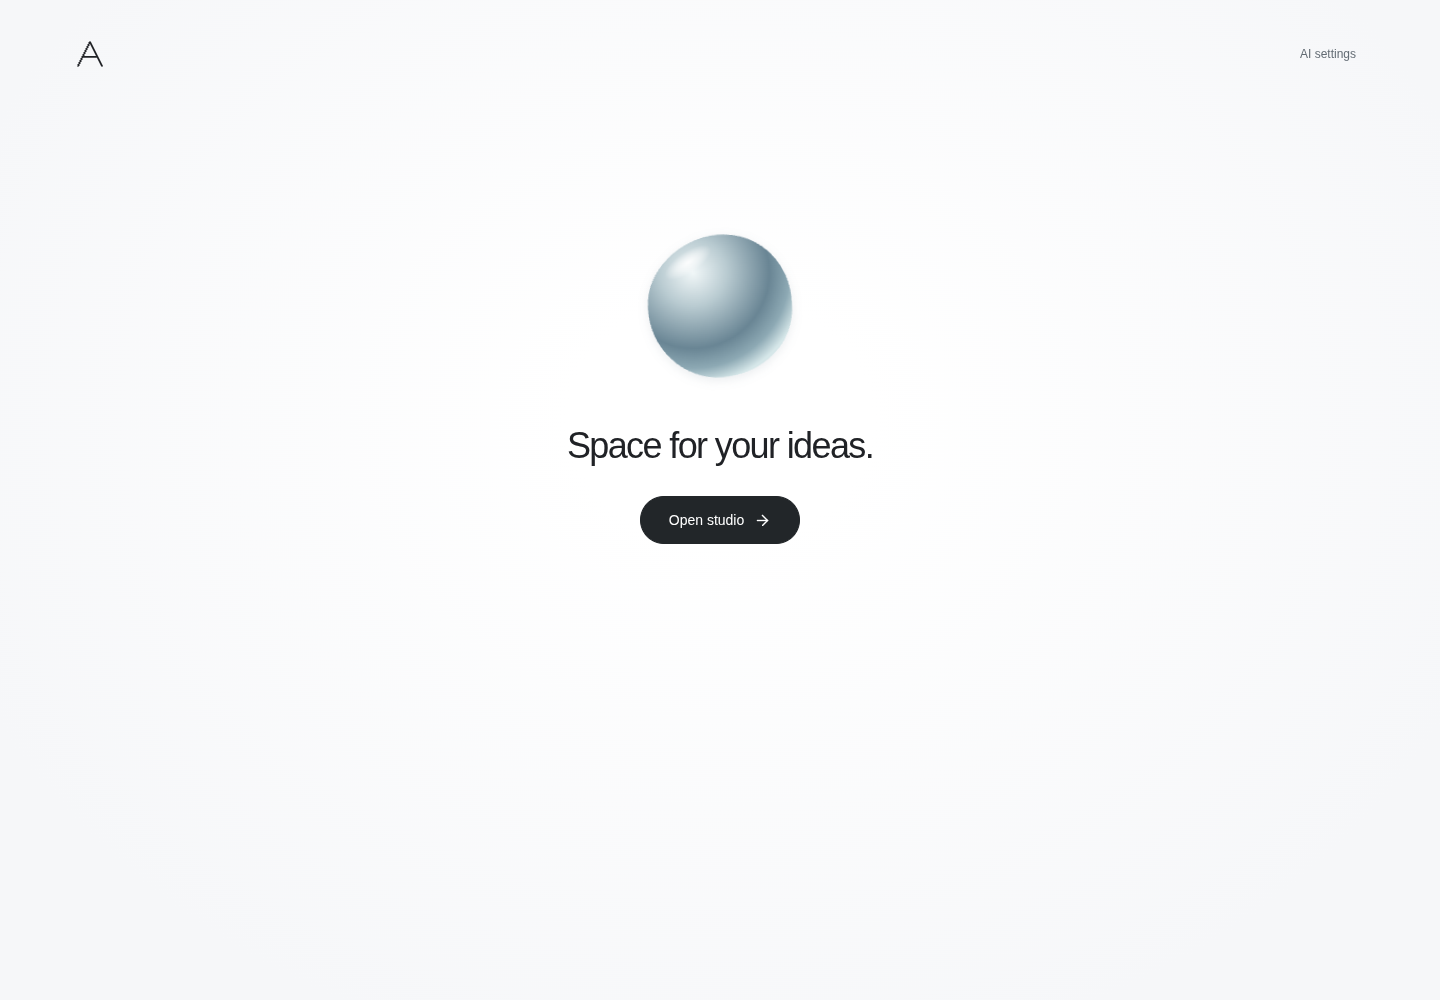
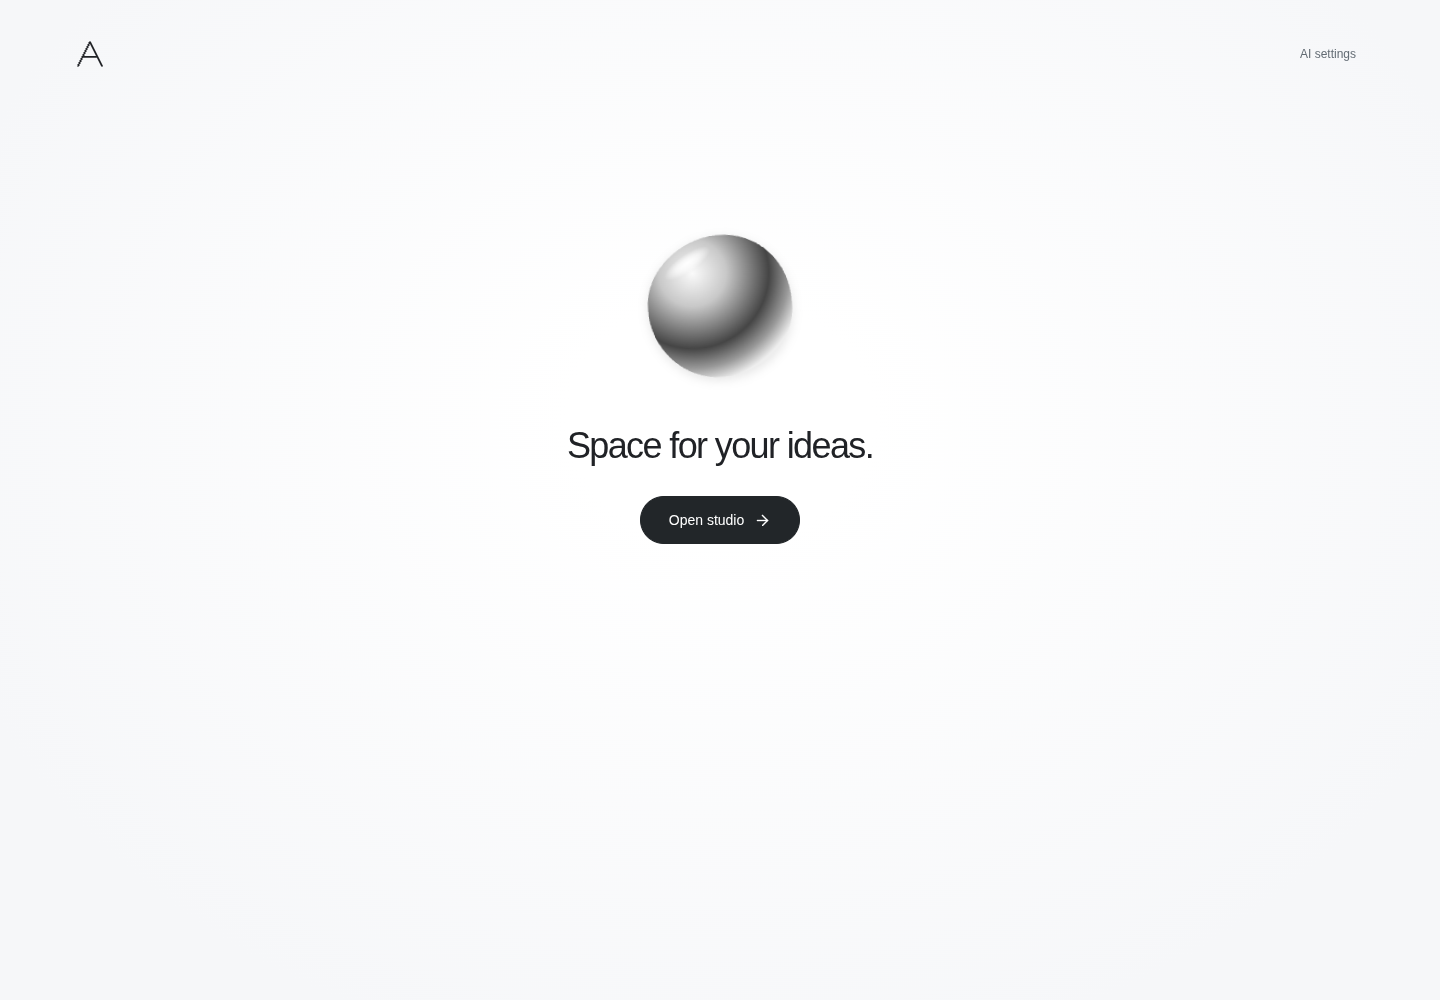
Give the companion monochrome glass and slightly livelier motion

Changed region(s): [[0.4375, 0.217, 0.5625, 0.372]]

diff --git a/src/conversation/AudioOrb.tsx b/src/conversation/AudioOrb.tsx
@@ -4,9 +4,9 @@ export type AudioLevels = { input: number; output: number };
  * the separate thinking motion communicates a request, not invented speech. */
 const contours = [
   'M50 10 C73 9 90 27 90 50 C91 73 72 89 50 90 C28 91 10 72 10 50 C9 29 29 11 50 10 Z',
-  'M48 9 C69 8 89 30 91 49 C94 70 71 89 51 91 C29 94 12 70 10 51 C8 30 27 12 48 9 Z',
-  'M52 11 C76 10 88 27 88 48 C89 70 77 91 52 89 C30 87 8 74 10 52 C12 29 29 13 52 11 Z',
-  'M49 10 C71 13 92 28 89 51 C86 73 74 87 49 89 C25 91 11 72 11 49 C11 26 27 7 49 10 Z',
+  'M47 9 C68 7 89 31 92 49 C95 69 71 89 51 92 C29 95 13 69 10 51 C7 31 26 13 47 9 Z',
+  'M53 11 C77 10 87 27 87 47 C89 69 78 91 53 89 C31 86 7 75 10 53 C13 29 29 14 53 11 Z',
+  'M49 10 C71 14 93 28 89 51 C85 73 75 86 49 89 C24 91 11 72 11 49 C11 25 27 6 49 10 Z',
 ];
 export default function AudioOrb({
   levels,
@@ -65,15 +65,15 @@ export default function AudioOrb({
       <svg ref={shape} className="orb-core" viewBox="0 0 100 100">
         <defs>
           <radialGradient id={gradient} cx="32%" cy="26%" r="78%">
-            <stop offset="0" stopColor="#f1f7f8" />
-            <stop offset=".3" stopColor="#b9cbd1" />
-            <stop offset=".68" stopColor="#698594" />
-            <stop offset=".86" stopColor="#8da9b4" />
-            <stop offset="1" stopColor="#d6e7e9" />
+            <stop offset="0" stopColor="#fafafa" />
+            <stop offset=".3" stopColor="#c8c8c8" />
+            <stop offset=".68" stopColor="#454545" />
+            <stop offset=".86" stopColor="#999999" />
+            <stop offset="1" stopColor="#eeeeee" />
           </radialGradient>
           <radialGradient id={`${gradient}-shine`}>
-            <stop offset="0" stopColor="white" stopOpacity=".9" />
-            <stop offset=".5" stopColor="white" stopOpacity=".5" />
+            <stop offset="0" stopColor="white" stopOpacity="1" />
+            <stop offset=".5" stopColor="white" stopOpacity=".65" />
             <stop offset="1" stopColor="white" stopOpacity="0" />
           </radialGradient>
         </defs>
@@ -81,7 +81,7 @@ export default function AudioOrb({
           <animate
             attributeName="d"
             values={[...contours, contours[0]].join(';')}
-            dur={state === 'thinking' ? '12s' : '18s'}
+            dur={state === 'thinking' ? '10s' : '14s'}
             repeatCount="indefinite"
             calcMode="spline"
             keyTimes="0;.25;.5;.75;1"
@@ -92,7 +92,7 @@ export default function AudioOrb({
           cx="33"
           cy="25"
           rx="15"
-          ry="6"
+          ry="5"
           transform="rotate(-32 33 25)"
           fill={`url(#${gradient}-shine)`}
         />

diff --git a/src/conversation/orb.css b/src/conversation/orb.css
@@ -20,27 +20,27 @@
   height: 100%;
   overflow: visible;
   pointer-events: none;
-  filter: drop-shadow(0 3px 5px #354d631a);
-  animation: orb-flow 18s ease-in-out infinite;
+  filter: drop-shadow(0 3px 5px #0000001a);
+  animation: orb-flow 14s ease-in-out infinite;
 }
 .audio-orb[data-state='thinking'] .orb-core {
-  animation-duration: 12s;
+  animation-duration: 10s;
 }
 /* A nearly circular surface gently yields without tumbling or broad wobble.
    Idle motion is separate from the measured audio response. */
 @keyframes orb-flow {
   0%,
   100% {
-    transform: translate(0, 0) rotate(-2deg) scale(1, 0.99);
+    transform: translate(0, 0) rotate(-3deg) scale(1, 0.985);
   }
   25% {
-    transform: translate(0.5%, -0.7%) rotate(1deg) scale(0.99, 1.01);
+    transform: translate(0.8%, -1%) rotate(1.5deg) scale(0.985, 1.015);
   }
   50% {
-    transform: translate(-0.5%, 0.7%) rotate(2deg) scale(1.01, 0.99);
+    transform: translate(-0.8%, 1%) rotate(3deg) scale(1.015, 0.985);
   }
   75% {
-    transform: translate(0.5%, 0) rotate(-1deg) scale(0.99, 1);
+    transform: translate(0.8%, 0) rotate(-1.5deg) scale(0.985, 1);
   }
 }
 .orb-dock {

diff --git a/docs/QUIET-STUDIO.md b/docs/QUIET-STUDIO.md
@@ -2,7 +2,7 @@
 
 ## Six requested changes
 
-1. **Moving companion:** one clear, glass-like form, with no outer sphere, rim or nested glass shell. Its nearly circular contour gently deforms over an 18-second cycle (12 seconds while thinking), using native SVG morphing and restrained CSS motion. Surface reflections add definition without blurring the outline. Actual microphone/output levels add audio response only during voice use. No microphone or paid request starts automatically. The device's Reduce Motion preference is respected.
+1. **Moving companion:** one monochrome, glass-like form with a stronger white reflection, with no outer sphere, rim or nested glass shell. Its nearly circular contour gently deforms with slightly increased motion over a 14-second cycle (10 seconds while thinking), using native SVG morphing and restrained CSS motion. Surface reflections add definition without blurring the outline. Actual microphone/output levels add audio response only during voice use. No microphone or paid request starts automatically. The device's Reduce Motion preference is respected.
 2. **Minimal welcome:** a shared geometric A with a clear horizontal crossbar appears alone in the welcome screen, workspace header and favicon. The visible Atelier wordmark is removed from both headers; accessible names are preserved. The welcome has one heading, moving orb and Open studio button; AI settings remain in the corner. New project stays above existing projects. The password popup closes when entry succeeds.
 3. **Minimized conversation:** the moving orb replaces the chat bubble in both manual and AI modes. Tap the orb to type. When voice is available a compact microphone control stays beside it; live questions and confirmations retain their existing reply/review flow. The microphone target is 44 pixels.
 4. **Moodboard removed:** no menu, viewport overlay, lazy viewer bundle or AI workspace command is offered. Existing project attachments remain in saved/imported/exported project data; they are not deleted. Conversation reference-image uploads and panorama imports remain available.
